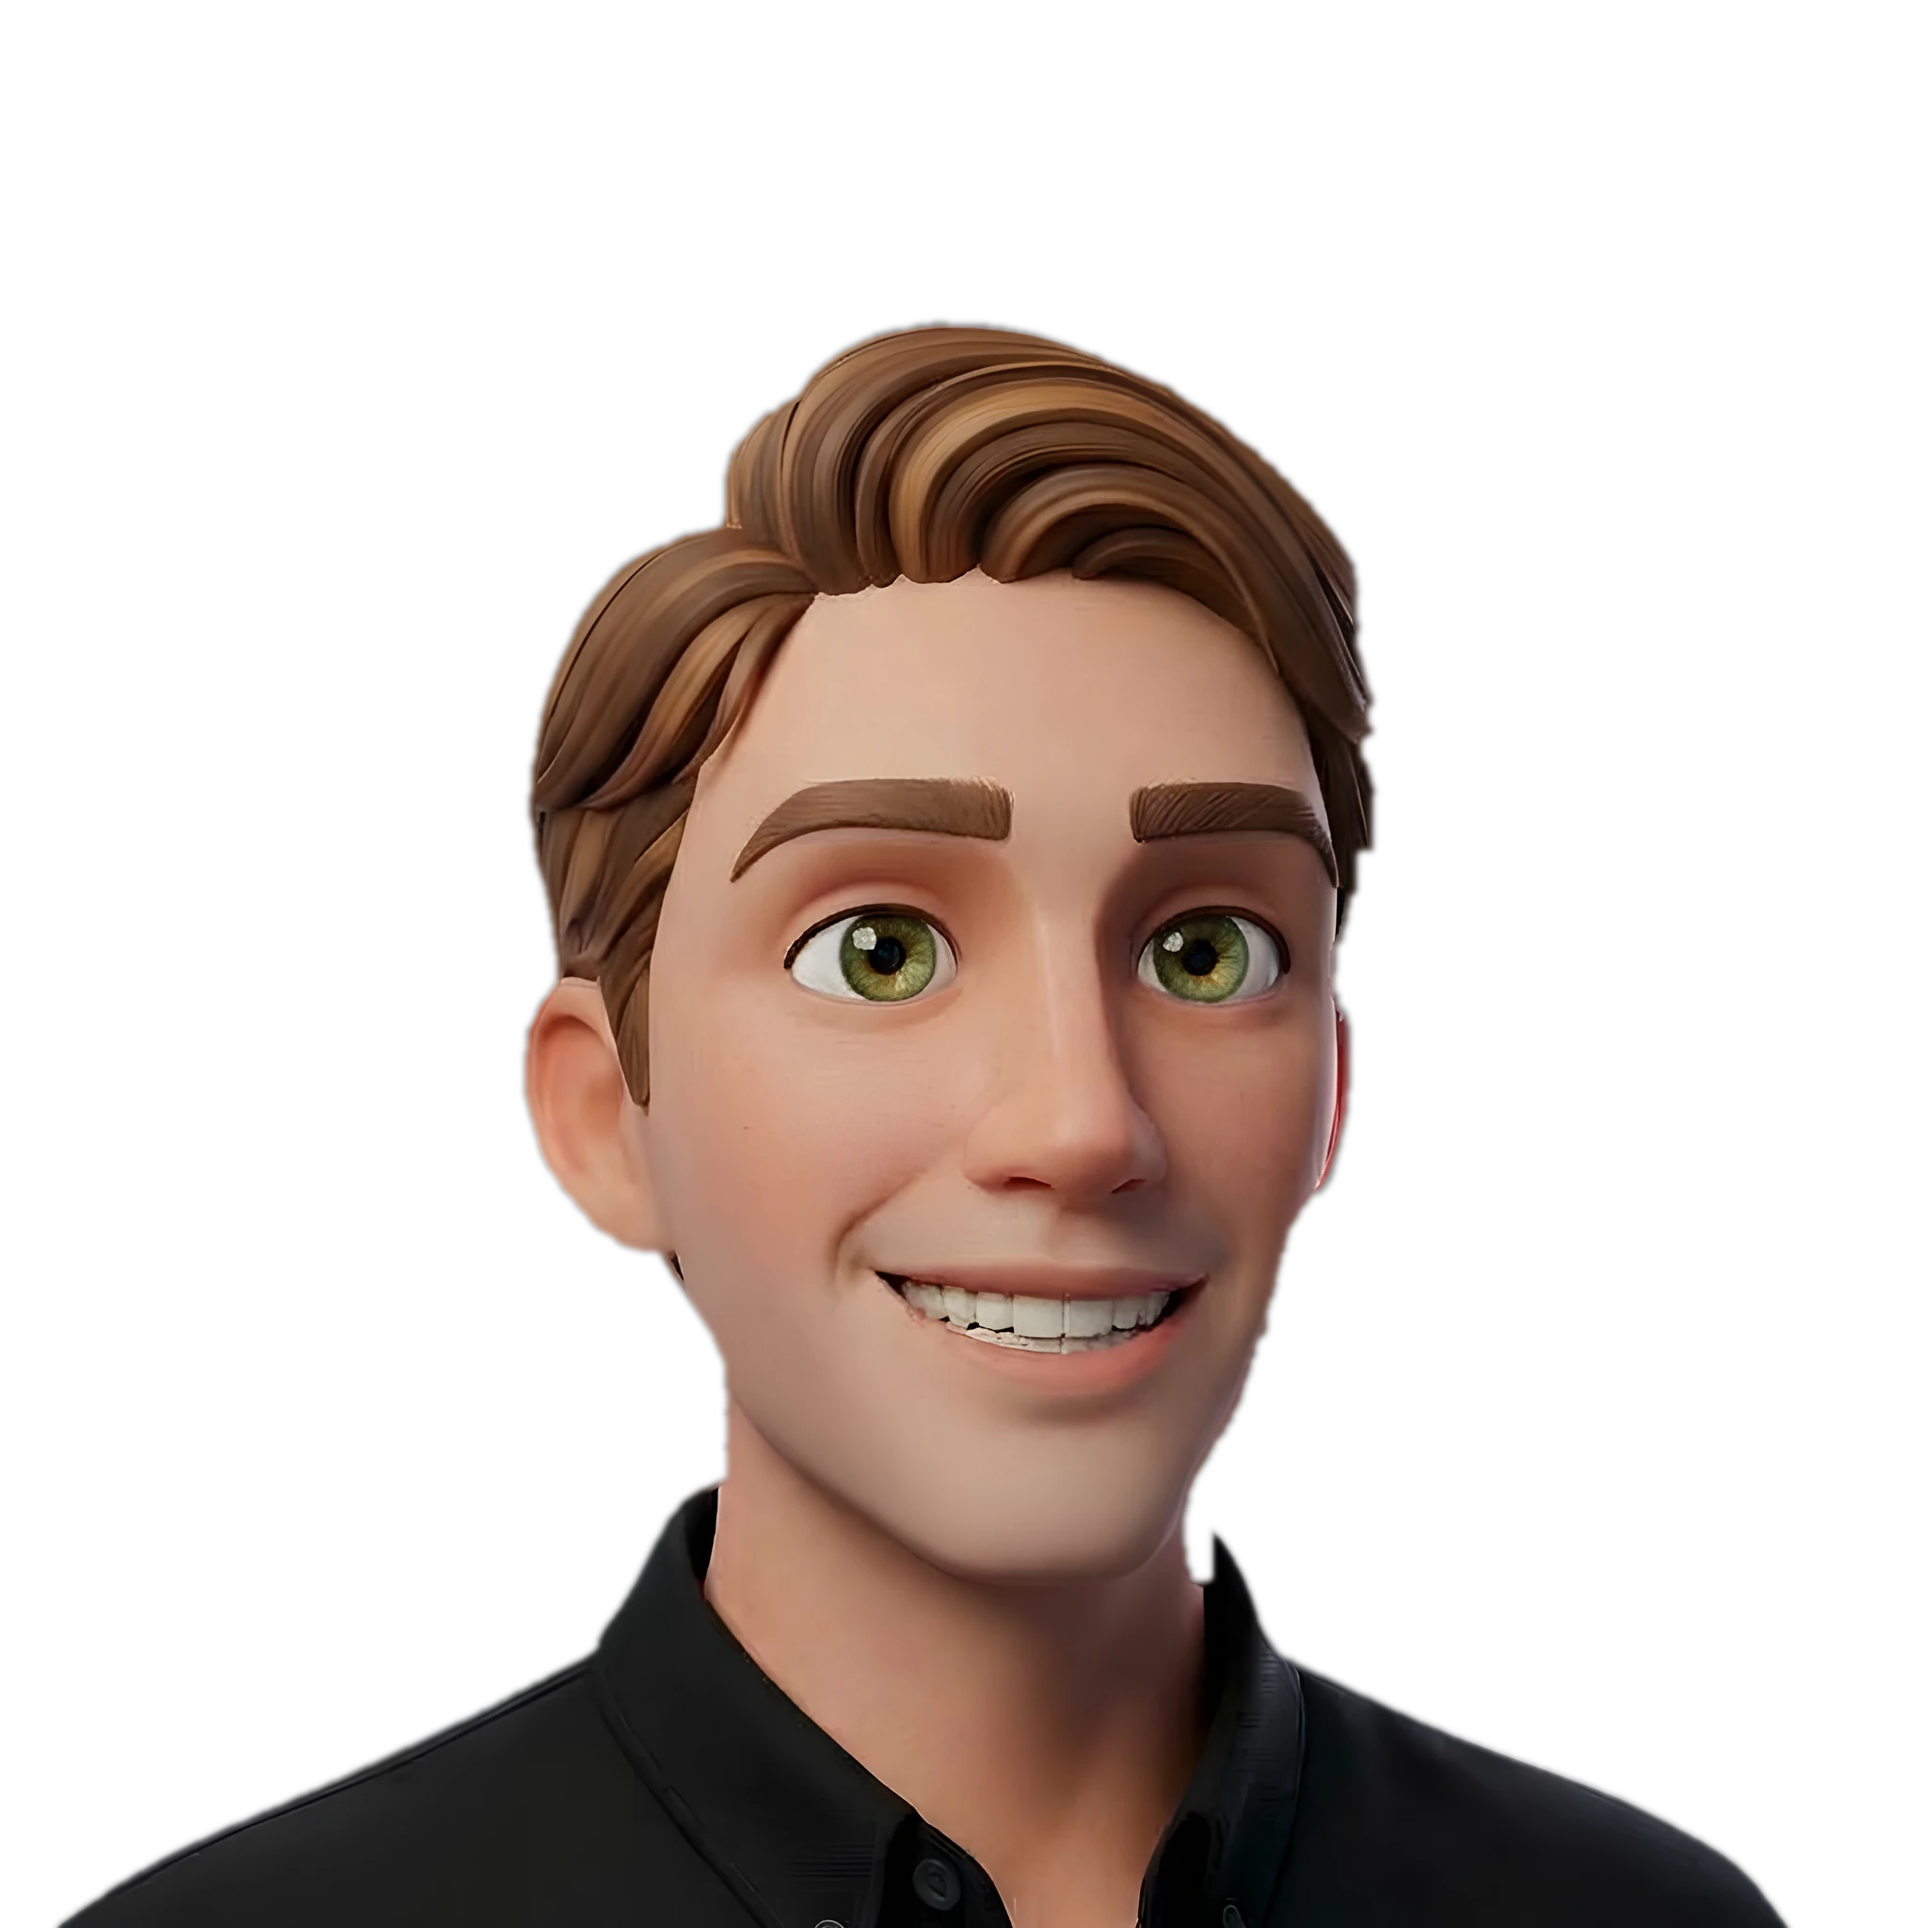
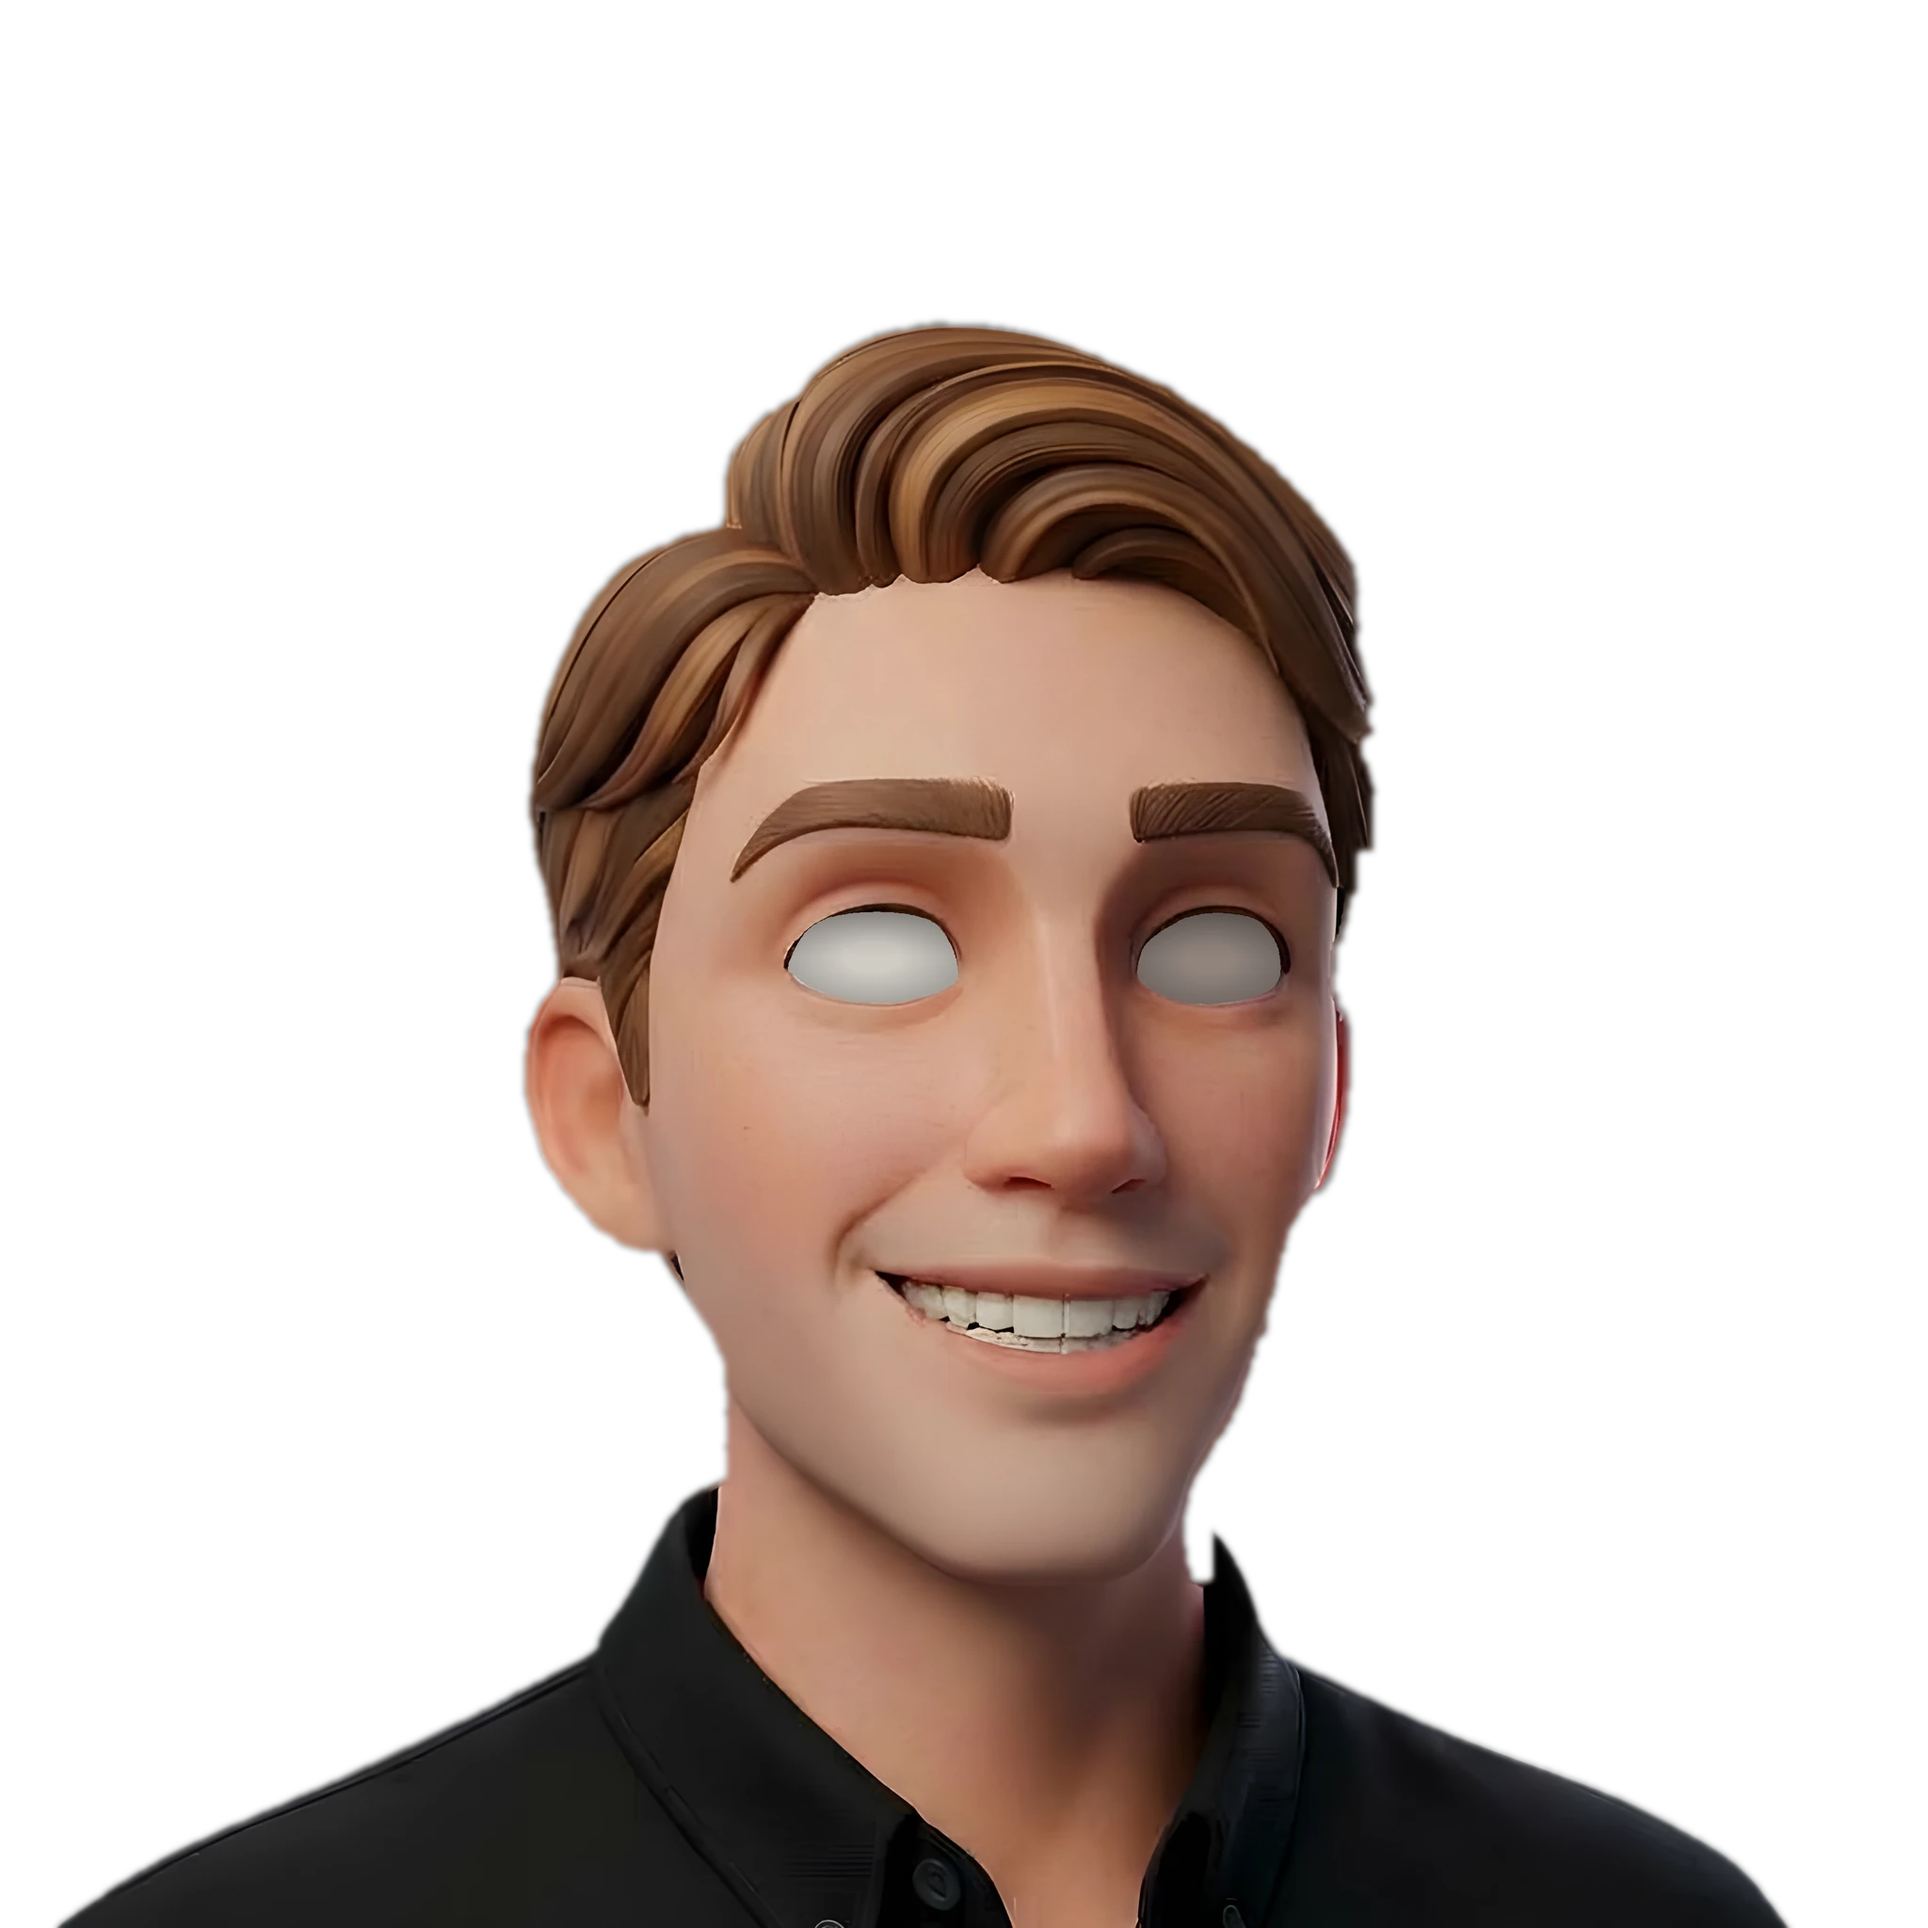
Ojos del personaje más naturales
- Abertura de cada ojo trazada sobre el render HD (bajo las pestañas y por
  encima del borde inferior): se conserva el borde rosado natural del párpado
- Blanco del ojo limpio con el color y sombreado del original (sin el blanco
  artificial que dejaba una franja inferior)
- Iris recortado a la abertura real, con sombra de pestañas y recorrido más
  contenido

Changed region(s): [[0.4062, 0.4688, 0.5, 0.5312], [0.5938, 0.4688, 0.6562, 0.5312]]

diff --git a/src/components/FounderRender.jsx b/src/components/FounderRender.jsx
@@ -37,17 +37,14 @@ const FRAG = /* glsl */ `
   uniform vec4 uBox0, uBox1;      // x0, x1, y0, y1 (uv) de la abertura
   uniform vec2 uGaze; uniform float uBlink;
   varying vec2 vUv;
-  vec3 eyeColor(vec2 uv, vec4 e, vec4 box, float side, float k) {
-    vec2 c = vec2((box.x + box.y) * 0.5, (box.z + box.w) * 0.5);
+  vec3 eyeColor(vec3 base, vec2 uv, vec4 e, vec4 box, float side, float k) {
     vec2 h = vec2((box.y - box.x) * 0.5, (box.w - box.z) * 0.5);
-    float d = length((uv - c) / h);
-    vec3 sclera = mix(vec3(0.97, 0.94, 0.91), vec3(0.80, 0.72, 0.68), smoothstep(0.35, 1.05, d));
-    sclera *= mix(0.72, 1.0, smoothstep(0.0, 0.5, k));            // sombra del párpado superior
-    vec2 ic = e.xy + uGaze * vec2(h.x * 0.42, h.y * 0.32);
+    vec2 ic = e.xy + uGaze * vec2(h.x * 0.36, h.y * 0.22);
     vec2 q = (uv - ic) / (2.0 * e.w) + 0.5;
     vec4 ir = (q.x > 0.0 && q.x < 1.0 && q.y > 0.0 && q.y < 1.0) ? texture2D(uIris, vec2(side * 0.5 + q.x * 0.5, q.y)) : vec4(0.0);
-    vec3 col = mix(sclera, ir.rgb * mix(0.8, 1.0, smoothstep(0.0, 0.45, k)), ir.a);
-    return col;
+    // sombra de las pestañas/párpado sobre el iris (más oscuro arriba)
+    vec3 iris = ir.rgb * mix(0.62, 1.0, smoothstep(0.02, 0.4, k));
+    return mix(base, iris, ir.a);
   }
   void main() {
     vec4 c = texture2D(uColor, vUv);
@@ -58,7 +55,7 @@ const FRAG = /* glsl */ `
       float k = maps.b;
       bool left = vUv.x < 0.54;
       vec4 e = left ? uEye0 : uEye1; vec4 box = left ? uBox0 : uBox1;
-      vec3 eye = eyeColor(vUv, e, box, left ? 0.0 : 1.0, k);
+      vec3 eye = eyeColor(c.rgb, vUv, e, box, left ? 0.0 : 1.0, k);
       if (k < uBlink) {
         // párpado: piel real tomada justo encima del ojo
         eye = texture2D(uColor, vec2(vUv.x, box.w + 0.012 + (box.w - vUv.y) * 0.25)).rgb * 0.97;
